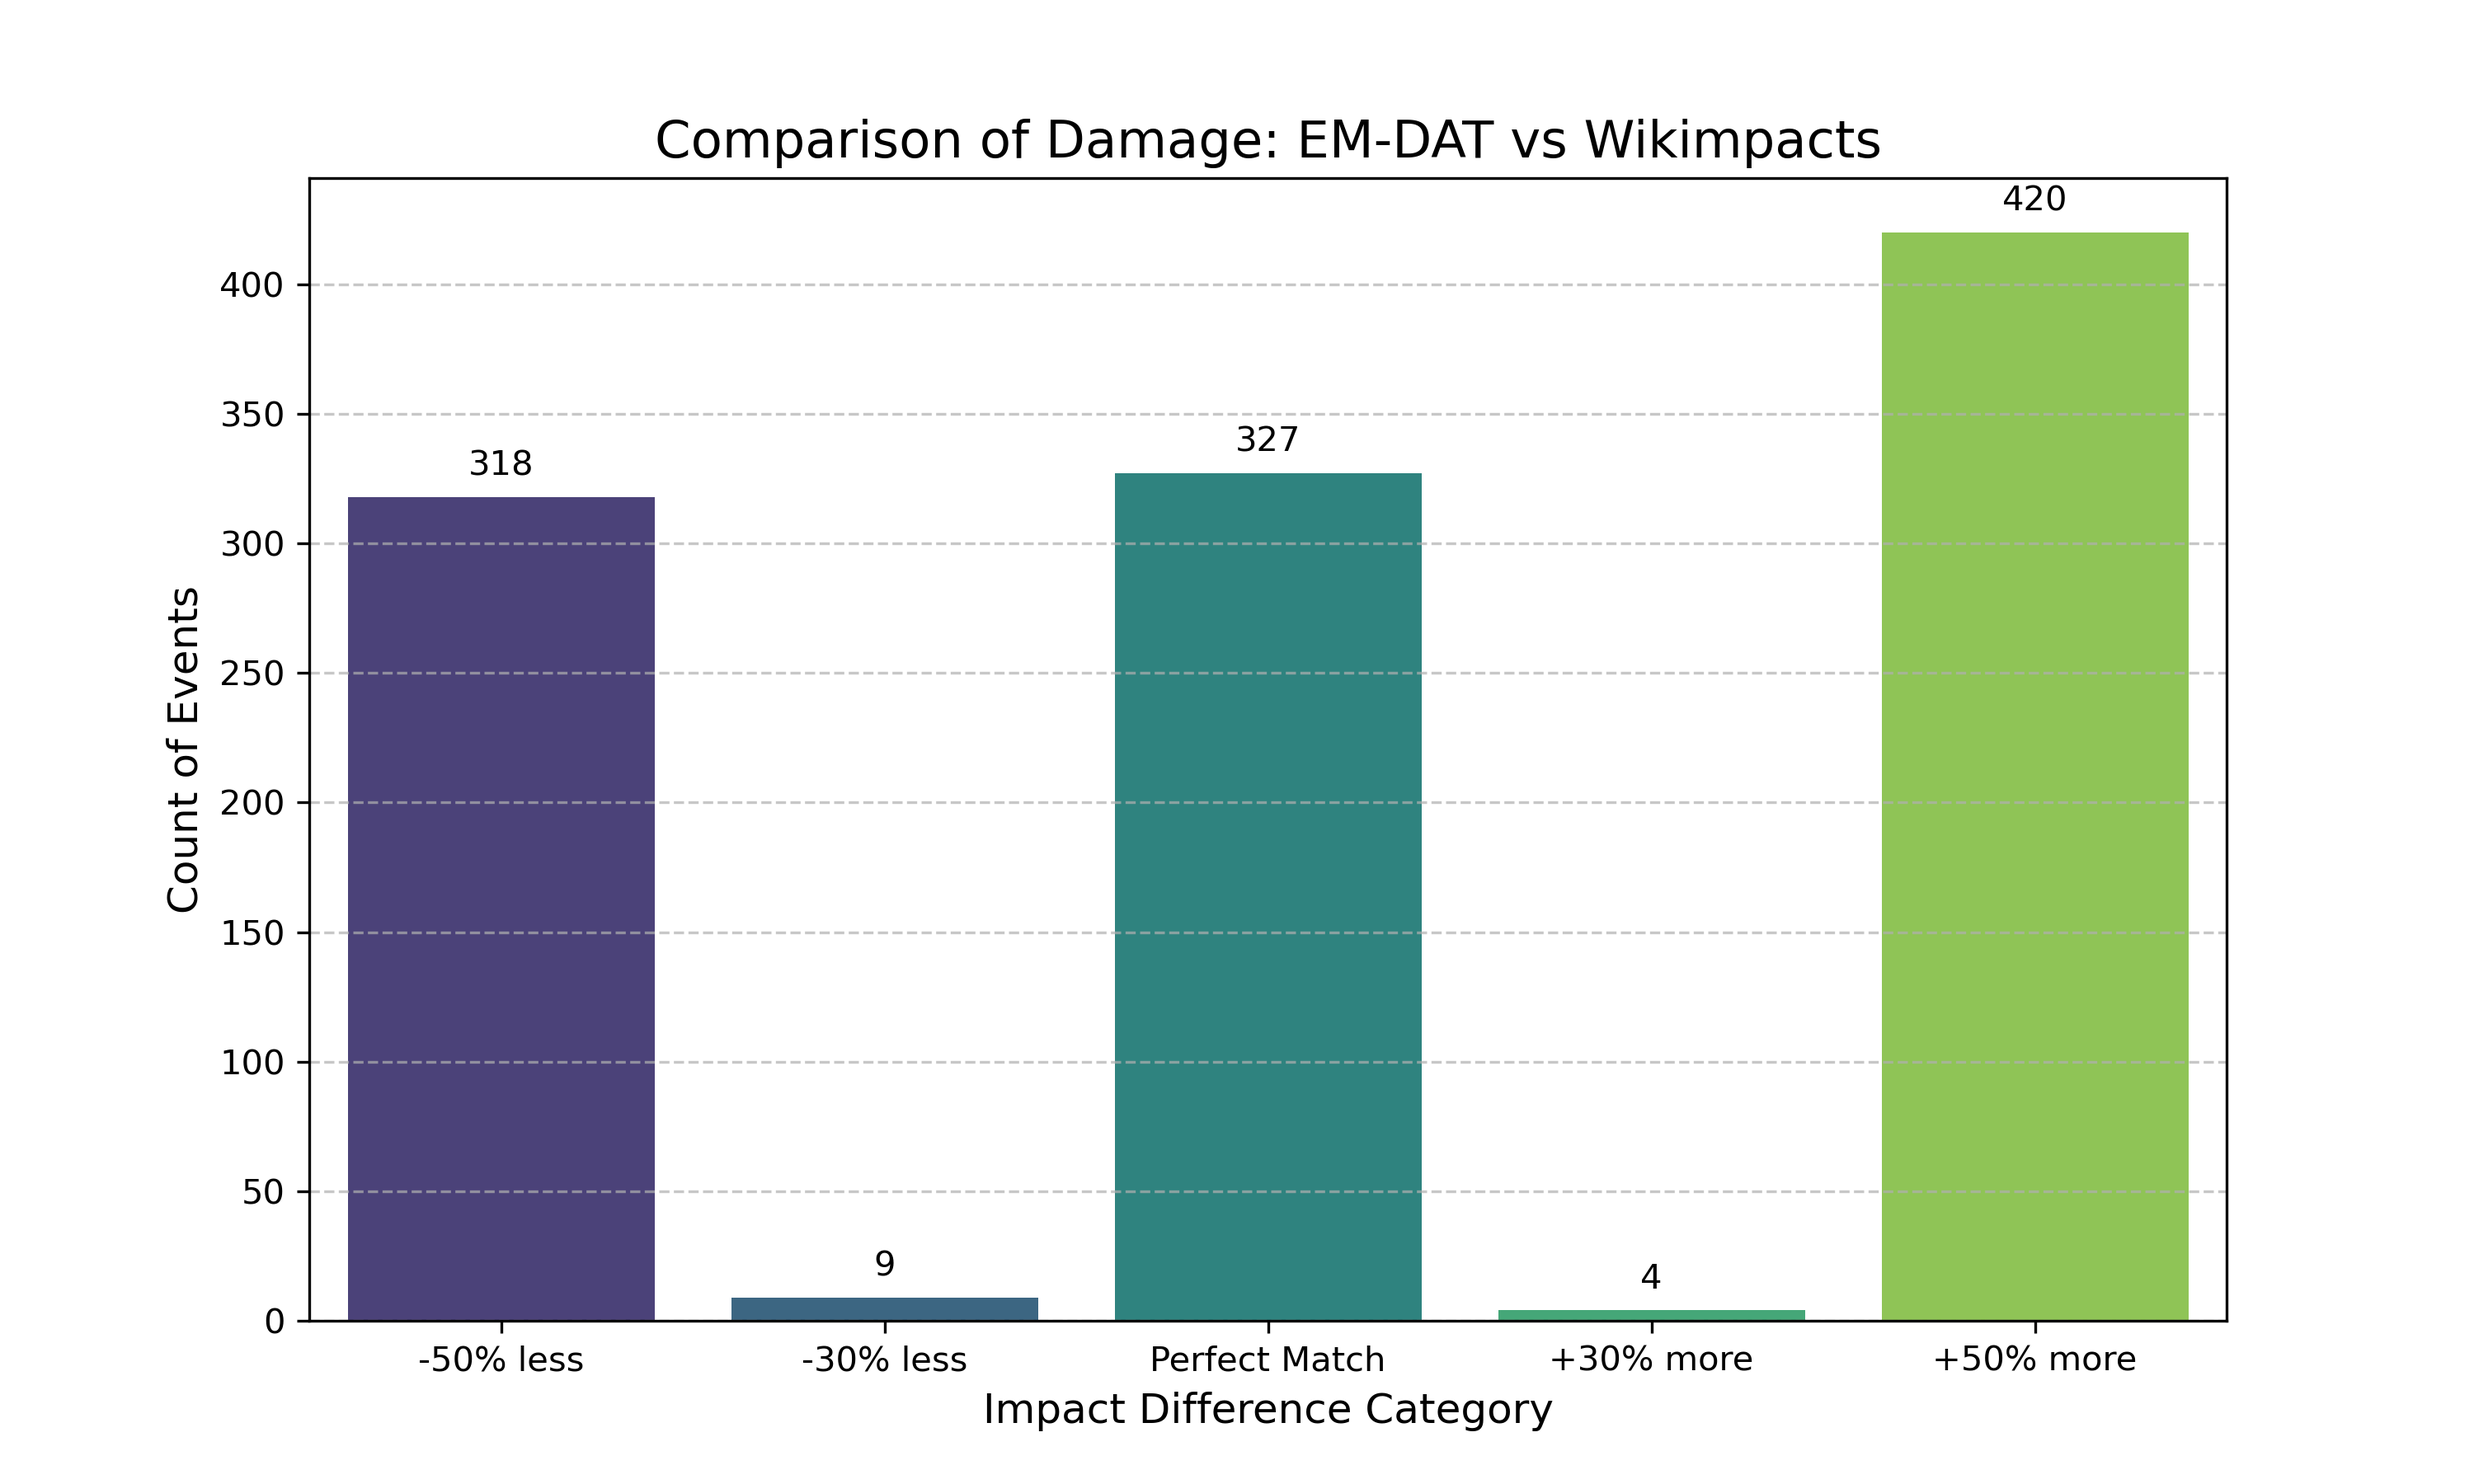
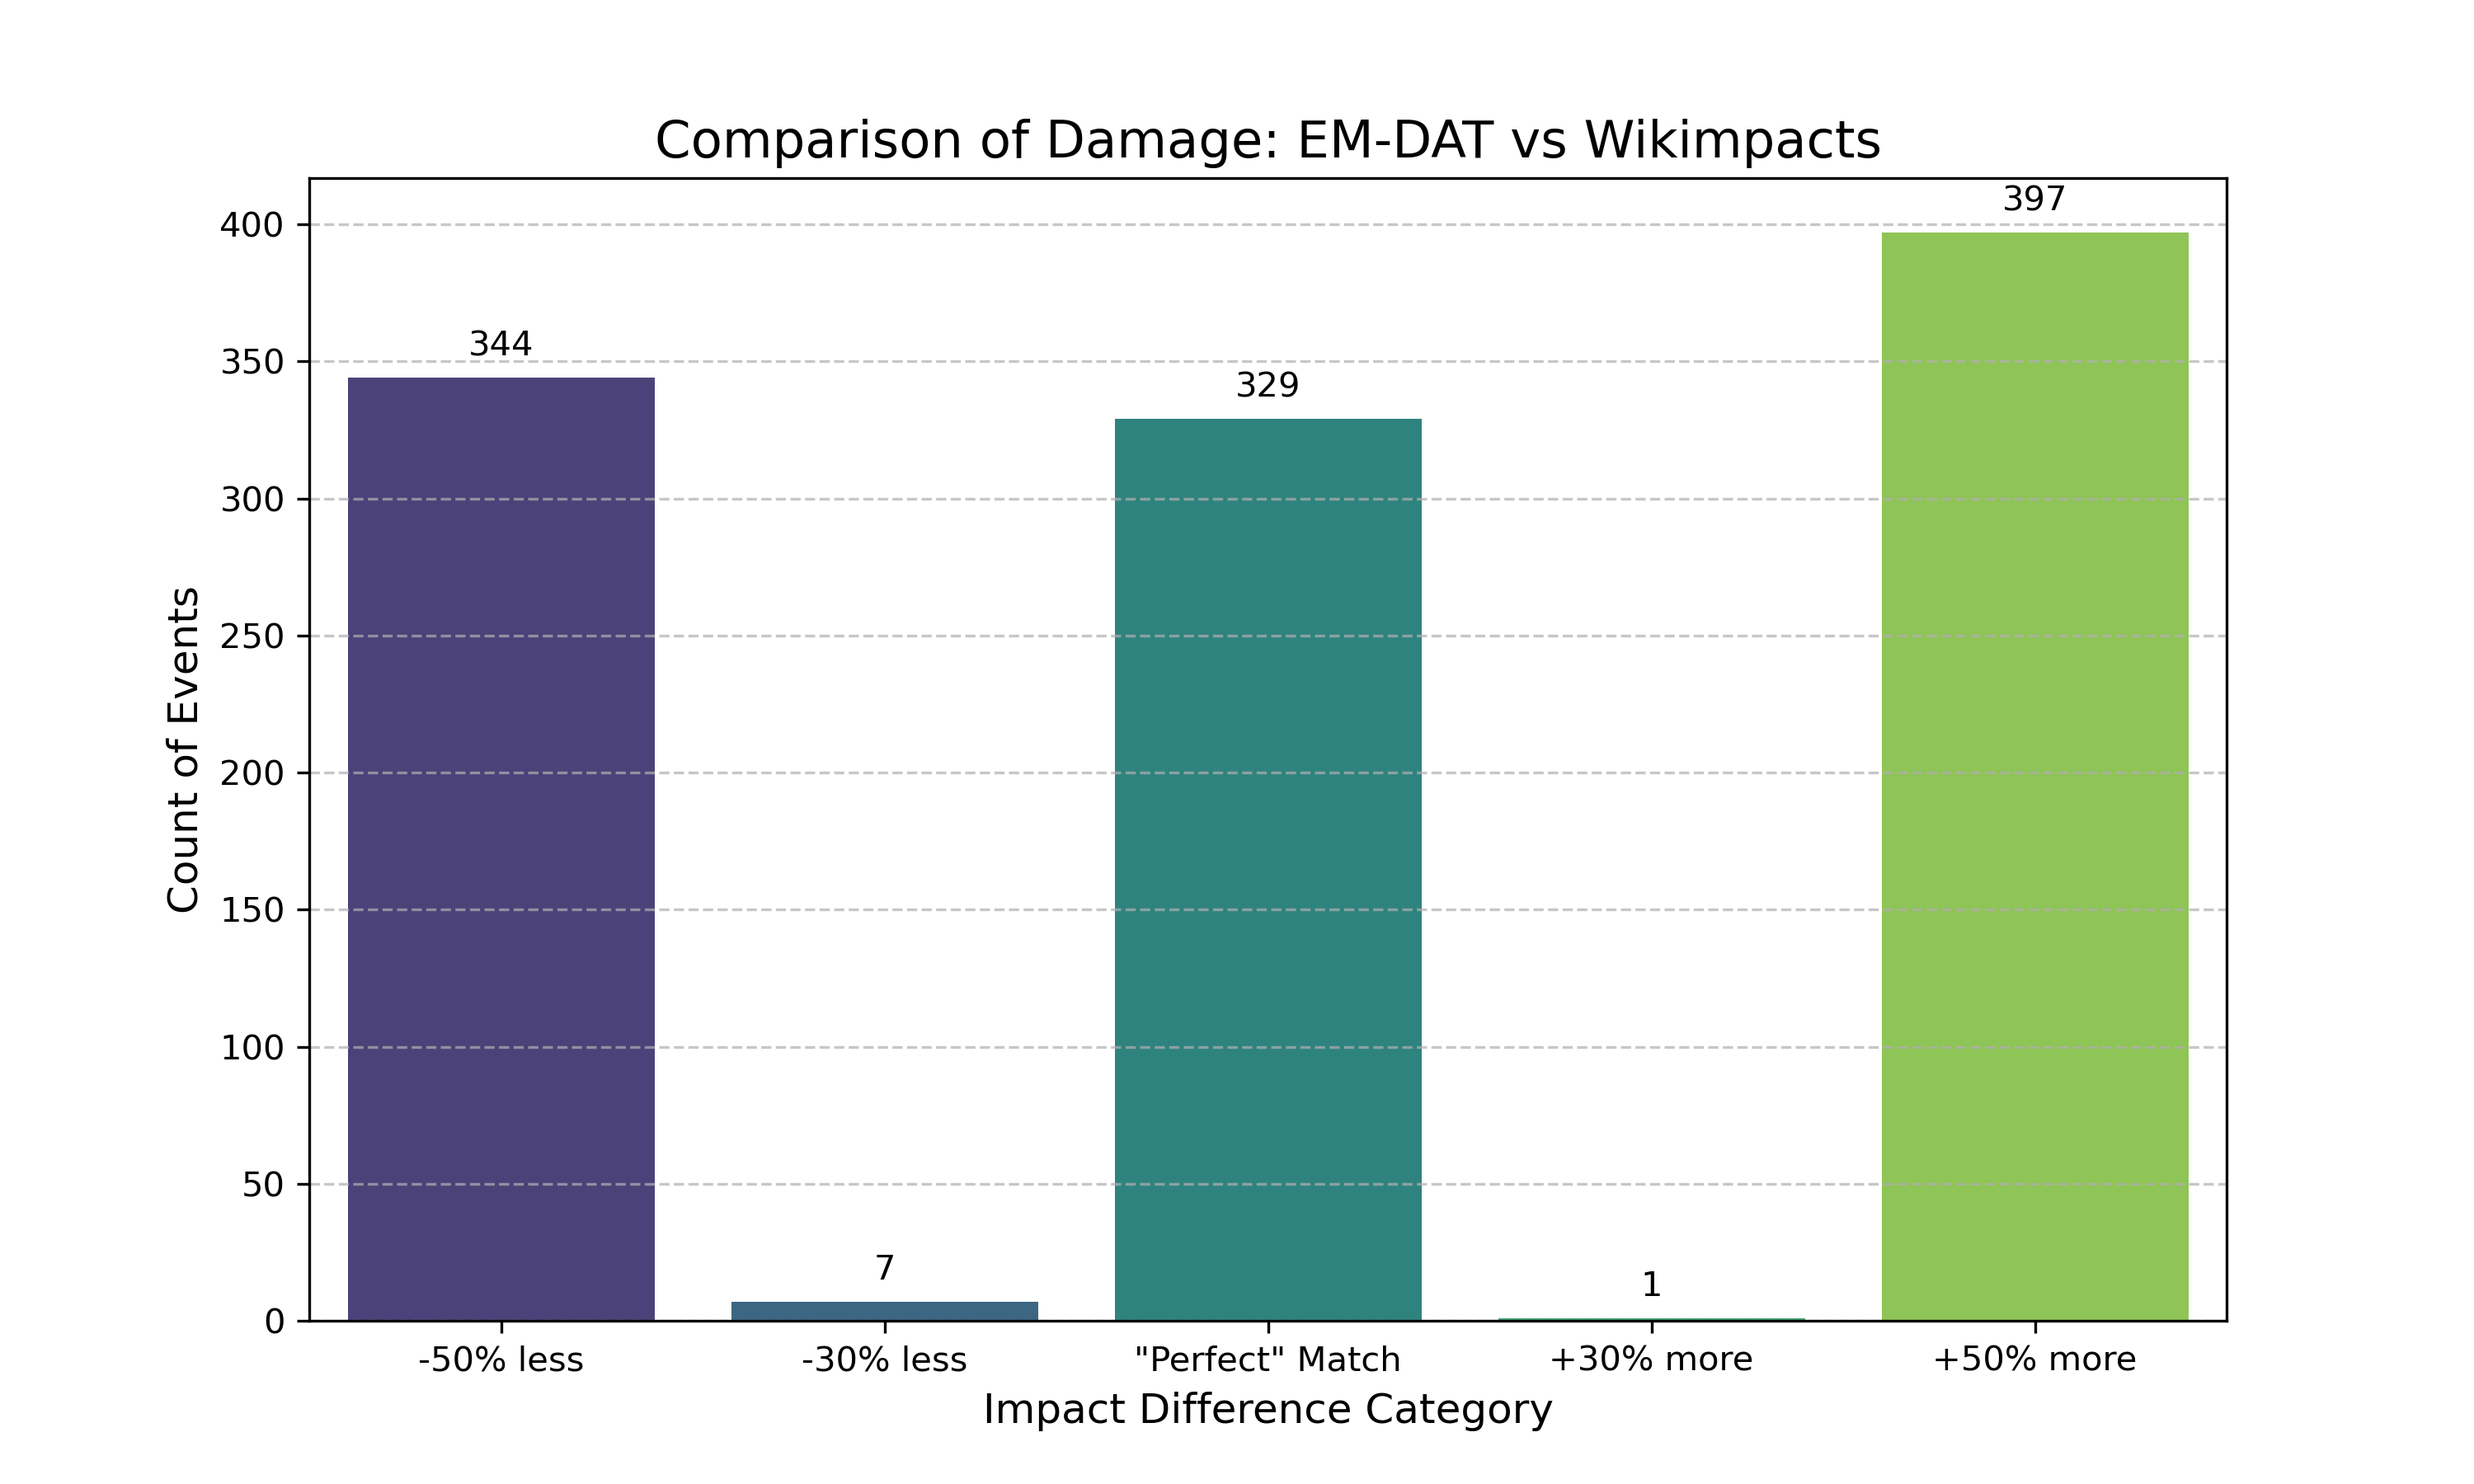
Testing Second Case
not required!

diff --git a/Data/WORKINGFILE_PhiRu_Case2.py b/Data/WORKINGFILE_PhiRu_Case2.py
@@ -387,10 +387,10 @@ def vectorized_rel_diff(df, col):
     cond_both_zero = (L3 == 0) & (L2 == 0)
 
     # Rule 1: If L3 > 0 and L2 = 0 → 1
-    cond_L3_pos_L2_zero = (L3 > 0) & (L2 == 0)
+    cond_L3_pos_L2_zero = (L3 == 0) & (L2 > 0)
 
     # Rule 4: Normal case → (L3 - L2) / L2
-    normal_case = (L3 - L2) / L2
+    normal_case = (L3 - L2) / L3
 
     # Build final vector using np.select
     return np.select(
